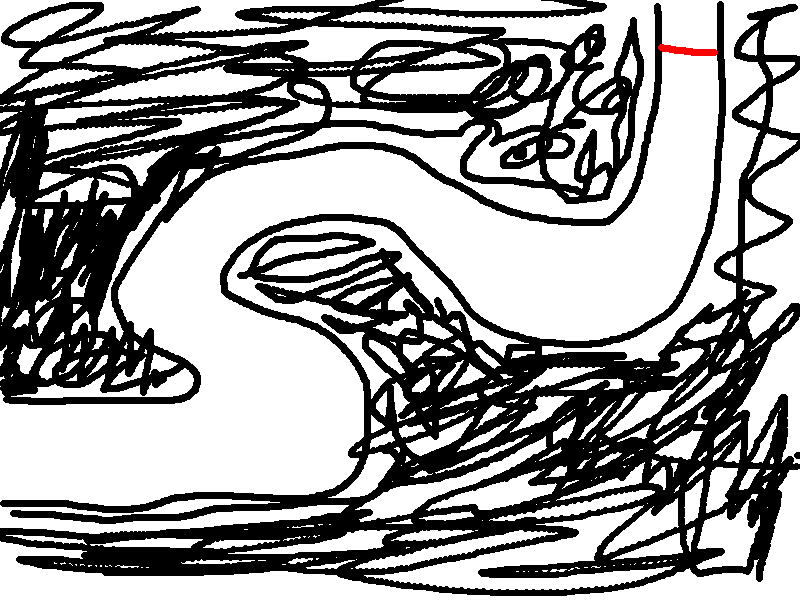
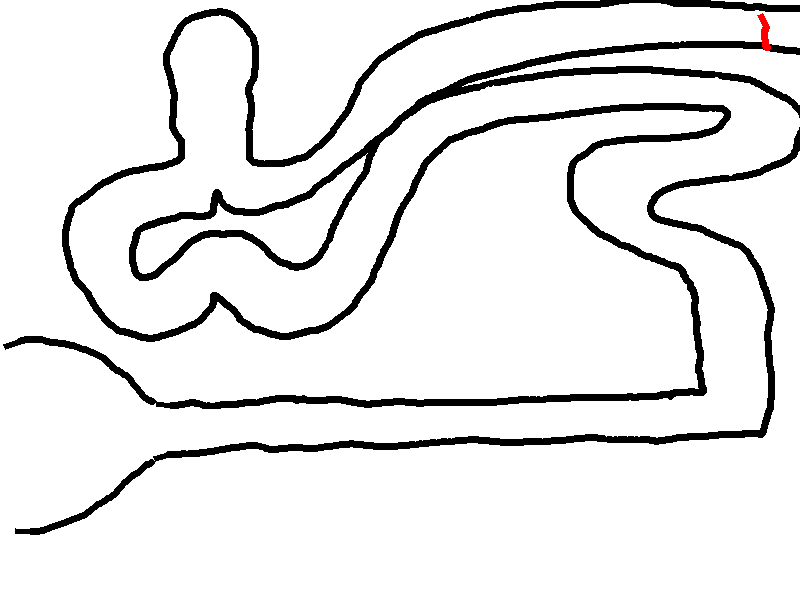
cambio de input

diff --git a/src/Agent.py b/src/Agent.py
@@ -251,15 +251,15 @@ class Agent:
                 # Compute continuous delta values
                 # Adjust angle directly with left/right arrows
                 if keys[pygame.K_LEFT]:
-                    self.angle -= 1
+                    self.angle -= 3
                 if keys[pygame.K_RIGHT]:
-                    self.angle += 1
+                    self.angle += 3
                 # Adjust speed continuously with up/down arrows
                 
                 if keys[pygame.K_UP]:
-                    self.speed += 0.01
+                    self.speed += 0.05
                 if keys[pygame.K_DOWN]:
-                    self.speed -= 0.01
+                    self.speed -= 0.1
 
                 # Accumulate and clamp the continuous values between 0.0 and 1.0
 

diff --git a/src/main.py b/src/main.py
@@ -83,7 +83,7 @@ def run_simulation(agent,check_rate=2):
                 last_displacement_check = elapsed_seconds
 
             if elapsed_seconds >= 4: 
-                if elapsed_seconds>=20:
+                if elapsed_seconds>=30:
                     agent.active = False
                     
                 if agent.speed < 0.1: